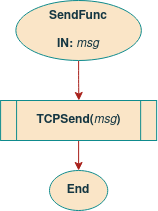
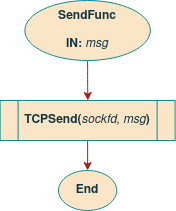
images sizes

diff --git a/report/texts/sw_remote_system.tex b/report/texts/sw_remote_system.tex
@@ -47,7 +47,7 @@ The class \textit{CClient}, represented in figure \ref{fig:CClient}, is responsi
 
 \begin{figure}[H]
 	\centering
-	\includegraphics[width=.6\textwidth]{09sw_specification/RS/CClient/CClient}
+	\includegraphics[width=.9\textwidth]{09sw_specification/RS/CClient/CClient}
 	\caption{Class Diagram: CClient.}
 	\label{fig:CClient}
 \end{figure}
@@ -121,6 +121,7 @@ The start-up process is shown in the figure \ref{fig:RSstart}. When the program 
 \end{figure}
 
 %**********************************************************
+\clearpage
 \subsection{Flowcharts}
 %********************************
 \myparagraph{CRemoteSystem}
@@ -129,7 +130,7 @@ The figure \ref{fig:rsConst} represents the \textit{CRemoteSystem} class's const
 
 \begin{figure}[H]
 	\centering
-	\includegraphics[width=.26\textwidth]{09sw_specification/RS/CTCPServer/rsConst}
+	\includegraphics[width=.26\textwidth]{09sw_specification/RS/CRemoteSys/Const}
 	\caption{Flowchart: CRemoteSystem Constructor.}
 	\label{fig:rsConst}
 \end{figure}
@@ -138,7 +139,7 @@ In figure \ref{fig:rsRun} is shown the \textit{CRemoteSystem} run method. Is is 
 
 \begin{figure}[H]
 	\centering
-	\includegraphics[width=.26\textwidth]{09sw_specification/RS/CTCPServer/rsRun}
+	\includegraphics[width=.6\textwidth]{09sw_specification/RS/CRemoteSys/Run}
 	\caption{Flowchart: CRemoteSystem run.}
 	\label{fig:rsRun}
 \end{figure}
@@ -150,7 +151,7 @@ In figure \ref{fig:ServerConst} is represented the constructor of the \textit{CT
 
 \begin{figure}[H]
 	\centering
-	\includegraphics[width=.26\textwidth]{09sw_specification/RS/CTCPServer/ServerConst}
+	\includegraphics[width=.26\textwidth]{09sw_specification/RS/CTCPServer/Const}
 	\caption{Flowchart: CTCPServer Constructor.}
 	\label{fig:ServerConst}
 \end{figure}
@@ -159,7 +160,7 @@ The function that creates a server socket for a maximum number of clients, \text
 
 \begin{figure}[H]
 	\centering
-	\includegraphics[width=.3\textwidth]{09sw_specification/RS/CTCPServer/CreateServer}
+	\includegraphics[width=.25\textwidth]{09sw_specification/RS/CTCPServer/CreateServer}
 	\caption{Flowchart: CTCPServer createServer.}
 	\label{fig:RSCreateServer}
 \end{figure}
@@ -168,7 +169,7 @@ In figure \ref{fig:acceptConn} is represented the \textit{acceptConnection} meth
 
 \begin{figure}[H]
 	\centering
-	\includegraphics[width=.3\textwidth]{09sw_specification/RS/CTCPServer/acceptConn}
+	\includegraphics[width=.25\textwidth]{09sw_specification/RS/CTCPServer/acceptConnection}
 	\caption{Flowchart: CTCPServer acceptConnection.}
 	\label{fig:acceptConn}
 \end{figure}
@@ -180,7 +181,7 @@ In figure \ref{fig:ClientConst} is represented the constructor of the \textit{CC
 
 \begin{figure}[H]
 	\centering
-	\includegraphics[width=.20\textwidth]{09sw_specification/RS/CClient/ConsClient}
+	\includegraphics[width=.20\textwidth]{09sw_specification/RS/CClient/Const}
 	\caption{Flowchart: CClient Constructor.}
 	\label{fig:ClientConst}
 \end{figure}
@@ -214,7 +215,7 @@ In the method \textit{initThFun}, shown in figure \ref{fig:clientInit}, it is cr
 
 \begin{figure}[H]
 	\centering
-	\includegraphics[width=0.3\textwidth]{09sw_specification/RS/CClient/init}
+	\includegraphics[width=0.26\textwidth]{09sw_specification/RS/CClient/init}
 	\caption{Flowchart: CClient initThFun.}
 	\label{fig:clientInit}
 \end{figure}
@@ -223,7 +224,7 @@ The method \textit{runThFun}, represented in figure \ref{fig:clientRun}, is resp
 
 \begin{figure}[H]
 	\centering
-	\includegraphics[width=0.3\textwidth]{09sw_specification/RS/CClient/run}
+	\includegraphics[width=0.26\textwidth]{09sw_specification/RS/CClient/run}
 	\caption{Flowchart: CClient runThFun.}
 	\label{fig:clientRun}
 \end{figure}
@@ -232,7 +233,7 @@ The figure \ref{fig:RSRecv} shows the thread that receive messages from the clie
 
 \begin{figure}[H]
 	\centering
-	\includegraphics[width=0.95\textwidth]{09sw_specification/RS/CClient/recv}
+	\includegraphics[width=0.4\textwidth]{09sw_specification/RS/CClient/tRecv}
 	\caption{Flowchart: CClient tRecv.}
 	\label{fig:RSRecv}
 \end{figure}
@@ -243,7 +244,25 @@ In figure \ref{fig:parseExecute} is represented the flowchart of the \textit{par
 
 \begin{figure}[H]
 	\centering
-	\includegraphics[width=0.95\textwidth]{09sw_specification/RS/CClient/parseExecute}
+	\includegraphics[width=0.6\textwidth]{09sw_specification/RS/CClient/parseExecute}
 	\caption{Flowchart: CClient parseExecute.}
 	\label{fig:parseExecute}
+\end{figure}
+
+As for the previous subsystems, this class must implement the \textit{recvFunc} and \textit{sendFunc} methods, as they are pure virtual methods from CCommunication. 
+
+In this class, one will use existent functions \textit{TCPReceive} and \textit{TCPSend} to implement TCP-IP communication, as shown in figures \ref{fig:RSrecvfunc} and \ref{fig:RSsendfunc}. This functions make use of the socket created when the TCP-IP connection was established.
+
+\begin{figure}[H]
+	\centering
+	\includegraphics[width=.35\textwidth]{09sw_specification/RS/CClient/Recvfunc}
+	\caption{Flowchart: CClient recvFunc method.}
+	\label{fig:RSrecvfunc}
+\end{figure}
+
+\begin{figure}[H]
+	\centering
+	\includegraphics[width=.35\textwidth]{09sw_specification/RS/CClient/Sendfunc}
+	\caption{Flowchart: CClient sendFunc method.}
+	\label{fig:RSsendfunc}
 \end{figure}
